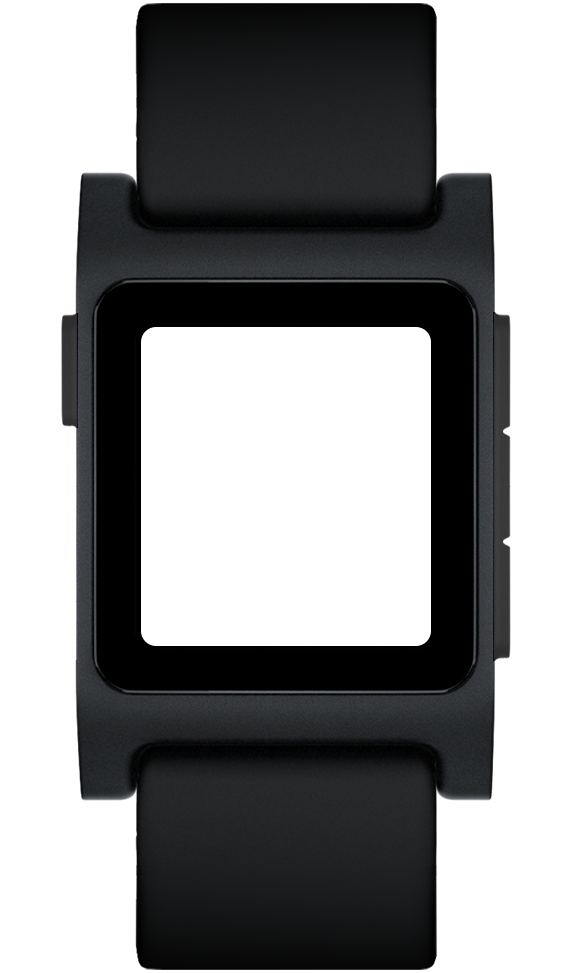
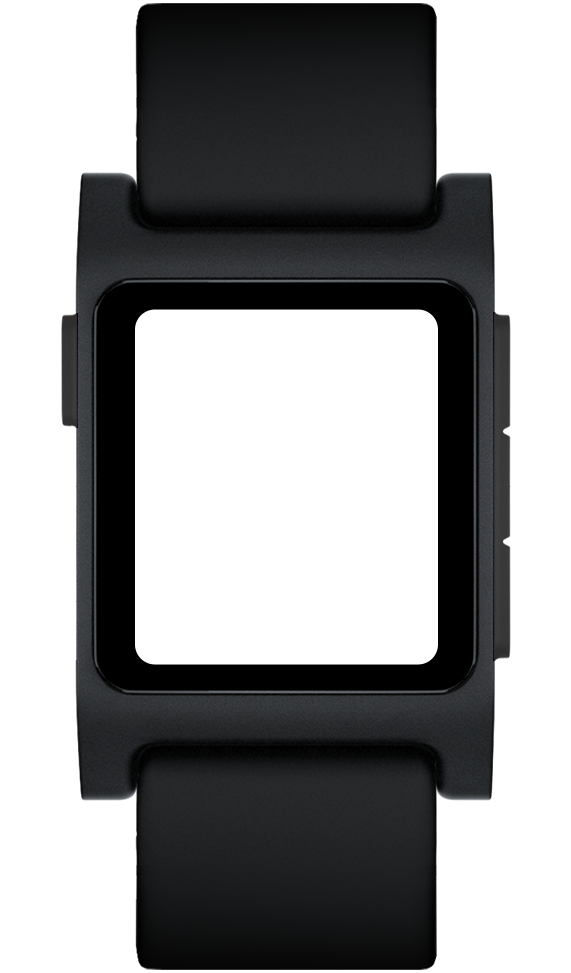
More updates

Changed region(s): [[0.2382, 0.3083, 0.7741, 0.7091]]

diff --git a/_sass/_style.scss b/_sass/_style.scss
@@ -1,12 +1,12 @@
 @import url('https://fonts.googleapis.com/css2?family=Nunito:ital,wght@0,200..1000;1,200..1000&family=Oswald:wght@200..700&family=Tomorrow:ital,wght@0,100;0,200;0,300;0,400;0,500;0,600;0,700;0,800;0,900;1,100;1,200;1,300;1,400;1,500;1,600;1,700;1,800;1,900&display=swap');
 
 body {
-    font-family: 'Tomorrow', sans-serif;
+    font-family: 'Nunito', sans-serif;
     margin: 0;
     padding: 0;
-    background-color: #F9C3DD;
+    background-color: #ffaaff;
     min-height: 100vh;
-    color: #31343C;
+    color: #000000;
 }
 
 *, :after, :before  {
@@ -25,44 +25,55 @@ header {
     text-align: center;
     h1 {
         font-family: 'Nunito', sans-serif;
-        font-size: 4rem;
+        font-size: 8rem;
         font-weight: 1000;
-        color: #31343C;
-        margin: 0;
+        margin: -1rem 0 -2rem;
+    }
+
+    .lead {
+        font-family: 'Tomorrow', sans-serif;
+        font-size: 2rem;
+        font-weight: 600;
     }
 
     p {
-        font-size: 2rem;
-        font-weight: 500;
-        color: #31343C;
         margin: 0;
+    }
+
+    .header-block {
+        display: flex;
+        justify-content: space-between;
+        align-items: center;
+        flex-wrap: wrap-reverse;
+        div {
+            max-width: 100%;
+        }
+
+        svg {
+            width: 100%;
+            height: auto;
+            max-width: 400px;
+            margin: 0 auto;
+        }
     }
 }
 
 .button {
+    font-family: 'Tomorrow', sans-serif;
     display: inline-block;
     padding: 1rem 2rem;
-    background-image: linear-gradient(to right, #F472B6, #8B5CF6);
+    background-color: #ff55ff;
     color: white;
     font-weight: bold;
     border-radius: 100px;
     text-decoration: none;
-    margin-top: 2rem;
     transition: all 0.3s ease;
     font-size: 1.2rem;
+    margin-bottom: 1rem;
+    margin-top: 1rem;
     &:hover {
         transform: scale(1.05);
-        background-image: linear-gradient(to right, #EC4899, #701A75);
-    }
-}
-.features-section {
-    padding: 80px 0;
-    h2 {
-        font-size: 2.5rem;
-        font-weight: bold;
-        color: #31343C;
-        text-align: center;
-        margin-bottom: 4rem;
+        background-color: #ff00ff;
     }
 }
 
@@ -70,6 +81,7 @@ header {
     display: grid;
     grid-template-columns: 1fr;
     gap: 2rem;
+    margin-bottom: 40px;
 }
 
 @import "components/feature-card.scss";
@@ -86,44 +98,38 @@ header {
     background-color: #ffffff;
 }
 
-.how-it-works-section {
+.section {
     padding: 80px 0;
     background-color: rgba(255, 255, 255, 0.1);
     backdrop-filter: blur(10px);
-
-    h2 {
-        font-size: 2.5rem;
-        font-weight: bold;
-        color: #31343C;
-        text-align: center;
-        margin-bottom: 4rem;
-    }
 } 
 
-.how-it-works-content {
+.section-content:not(:last-of-type) {
+    padding-bottom: 80px;
+}
+
+.section-content {
     display: grid;
     grid-template-columns: 1fr;
     gap: 2rem;
     align-items: center;
 }
 
-.how-it-works-text-content {
+.section-text-content {
     h3 {
+        font-family: 'Tomorrow', sans-serif;
         font-size: 2rem;
         font-weight: 600;
-        color: #31343C;
         margin-bottom: 1.5rem;
     }
     
     p {
-        color: #31343C;
         margin-bottom: 1rem;
     }
     
     ul {
         list-style-type: disc;
         padding-left: 2rem;
-        color: #31343C;
     }
 }
 
@@ -136,7 +142,6 @@ header {
 footer {
     padding: 3rem 0;
     text-align: center;
-    color: #31343C;
 }
 
 @media (min-width: 768px) {
@@ -145,11 +150,16 @@ footer {
     }
     header h1{
         margin-left: 0;
+        font-size: 12rem;
+        margin: -3rem 0 -4rem;
+    }
+    header p {
+        margin-left: 0.75rem;
     }
     .feature-cards {
         grid-template-columns: repeat(2, 1fr);
     }
-    .how-it-works-content {
+    .section-content {
         grid-template-columns: repeat(2, 1fr);
     }
 }

diff --git a/index.html b/index.html
@@ -19,23 +19,22 @@ layout: home
     </div>
 </section>
 
-<section class="how-it-works-section">
+<section class="section">
     <div class="wrapper">
-        <h2>How It Works</h2>
-        <div class="how-it-works-content">
-            <div class="how-it-works-text-content">
-                <h3>Seamless Integration with Pebble</h3>
+        <div class="section-content">
+            <div class="section-text-content">
+                <h3>Built by Rebble</h3>
                 <p>
-                    Bobby seamlessly integrates with your Pebble Smartwatch, providing
-                    a natural and intuitive way to interact with your device.  It
-                    enhances your Pebble experience.
+                    Bobby is added to your Rebble Subscription, extracting
+                    more value from what you already paid for. If you
+                    don't have a Rebble subscription yet, <a target="_blank" href="https://auth.rebble.io/account/">it's only $3 a month</a>.
                 </p>
-                <ul>
-                    <li>Install the Bobby app from the Pebble app store.</li>
-                    <li>Connect Bobby to your phone.</li>
-                    <li>Start using voice commands and smart features on your Pebble.</li>
-                </ul>
             </div>
+            <div class="pebbles-container">
+            {% include rebble_logo.svg %}
+            </div>
+        </div>
+        <div class="section-content">
             <div class="pebbles-container">
                 {% capture screencontent %}
                 <div>
@@ -61,6 +60,31 @@ layout: home
                     content = screencontent
                     frame = "pebble-time"
                 %}
+            </div>
+            <div class="section-text-content">
+                <h3>Quick and Easy to Use</h3>
+                <p>
+                    Bobby enhances your Pebble smartwatch experience by
+                    enabling you to accomplish more tasks swiftly.
+                    Setting reminders, alarms, and timers becomes
+                    effortless, and you can now access essential
+                    information directly on your watch.
+                </p>
+            </div>
+        </div>
+        <div class="section-content">
+            <div class="section-text-content">
+                <h3>Privacy Respecting</h3>
+                <p>
+                    Bobby doesn't store any data long term, and the
+                    content of your requests isn't used for further AI training.
+                </p>
+            </div>
+            <div class="section-text-content">
+                <h3>Open Source</h3>
+                <p>
+                    The Pebble app is fully open source and hosted on GitHub. 
+                </p>
             </div>
         </div>
     </div>

diff --git a/_includes/head.html b/_includes/head.html
@@ -4,4 +4,16 @@
   <meta name="viewport" content="width=device-width, initial-scale=1">
   <link rel="stylesheet" href="https://cdn.jsdelivr.net/npm/@fortawesome/fontawesome-free@latest/css/all.min.css">
   <link rel="stylesheet" href="{{ '/assets/main.css' | relative_url }}">
+  <title>{% if page.title %}{{ page.title }} - {% endif %}{{ site.title }}</title>
+  <meta property="og:title" content="{% if page.title %}{{ page.title }} - {% endif %}{{ site.title }}" />
+  <meta property="og:type" content="website" />
+  <meta property="og:url" content="{{ page.url | absolute_url }}" />
+  <meta property="og:image" content="{{ '/assets/images/banner.png' | absolute_url }}" />
+  <meta property="og:description" content="{% if page.description %}{{ page.description }}{% else %}{{ site.description }}{% endif %}" />
+  <meta property="og:site_name" content="Rebble" />
+  <meta property="og:locale" content="en_US" />
+
+    
+  <link rel="icon" href="{{ '/assets/images/favicon.svg' | relative_url }}" type="image/svg+xml" sizes="64x64">
+  <link rel="icon" href="{{ '/assets/images/favicon.ico' | relative_url }}" type="image/x-icon">
 </head>

diff --git a/_sass/components/feature-card.scss b/_sass/components/feature-card.scss
@@ -7,14 +7,17 @@
     border: 1px solid rgba(255, 255, 255, 0.2);
 
     h3 {
-        font-size: 1.5rem;
+        font-family: 'Tomorrow', sans-serif;
+        font-size: 1.25rem;
         font-weight: 600;
-        color: #31343C;
+        margin: 0;
         margin-bottom: 1rem;
+        display: flex;
+        align-items: center;
     }
 
     p {
-        color: #31343C;
+        margin: 0;
     }
 }
 
@@ -26,11 +29,10 @@
     align-items: center;
     justify-content: center;
     background-color: rgba(255, 255, 255, 0.3);
-    margin-right: 1rem;
+    margin-right: 0.75rem;
 
     svg {
         width: 1.5625rem;
         height: 1.5625rem;
-        color: #31343C;
     }
 }

diff --git a/_includes/header.html b/_includes/header.html
@@ -1,9 +1,13 @@
 <header class="wrapper">
-    <h1>Bobby</h1>
-    <p>The most well-read pony on the platform.</p>
+    <div class="header-block">
+    <div>
+      <p class="lead">The most well-read pony on the platform</p>
+      <h1>Bobby</h1>
+      <p class="lead">Rebble AI Assistant</p>
 
-    {% if page.layout == 'home' %}
-    <a href="{{ site.store_url }}" class="button">Download Bobby</a>
-    {% endif %}
-    <!-- TODO: add a nice bobby image here-->
+      <a href="{{ site.store_url }}" class="button">Get Bobby</a>
+      <p>Requires a Rebble Subscription</p>
+    </div>
+    {% include big-bobby.svg %}
+    </div>
 </header>

diff --git a/_includes/components/feature-card.html b/_includes/components/feature-card.html
@@ -1,12 +1,14 @@
 <div class="feature-card">
-    {% if include.icon %}
-    {% capture icon %}
-    {% include icons/{{ include.icon }} %}
-    {% endcapture %}
-    <div class="feature-card-icon">
-        {{ icon }}
-    </div>
-    {% endif %}
-    <h3>{{ include.title }}</h3>
+    <h3>
+      {% if include.icon %}
+      {% capture icon %}
+      {% include icons/{{ include.icon }} %}
+      {% endcapture %}
+      <span class="feature-card-icon">
+          {{ icon }}
+      </span>
+      {% endif %}
+      {{ include.title }}
+    </h3>
     <p>{{ include.description }}</p>
 </div>

diff --git a/_sass/components/pebble-frame.scss b/_sass/components/pebble-frame.scss
@@ -31,15 +31,8 @@
         container-type: size;
     }
 
-    &.pebble-2 .pebble-screen {
-        padding-top: 57.4%;
-        padding-bottom: 57%;
-        padding-left: 24.6%;
-        padding-right: 24.5%;
-    }
-
-    &.pebble-time .pebble-screen {
-        padding-top: 54.4%;
+    .pebble-screen {
+        padding-top: 54%;
         padding-bottom: 54%;
         padding-left: 23.5%;
         padding-right: 23%;

diff --git a/_includes/footer.html b/_includes/footer.html
@@ -1,3 +1,3 @@
 <footer class="site-footer h-card">
-    <p>Bobby - "I'm doing thanks! How help?"</p>
+    <p>Bobby was created by <a target="_blank" href="https://rebble.io">Rebble</a> using <a target="_blank" href="https://deepmind.google/technologies/gemini/">Gemini</a> technology</p>
 </footer>
